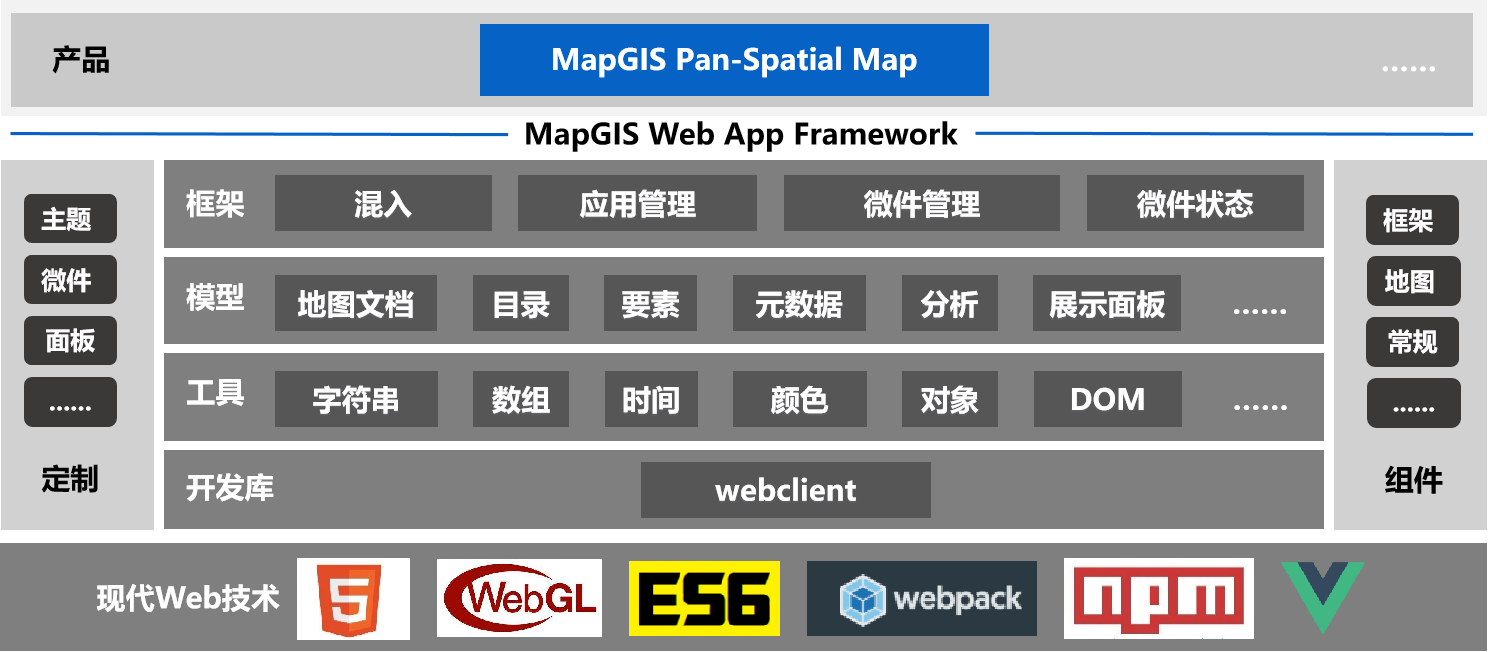
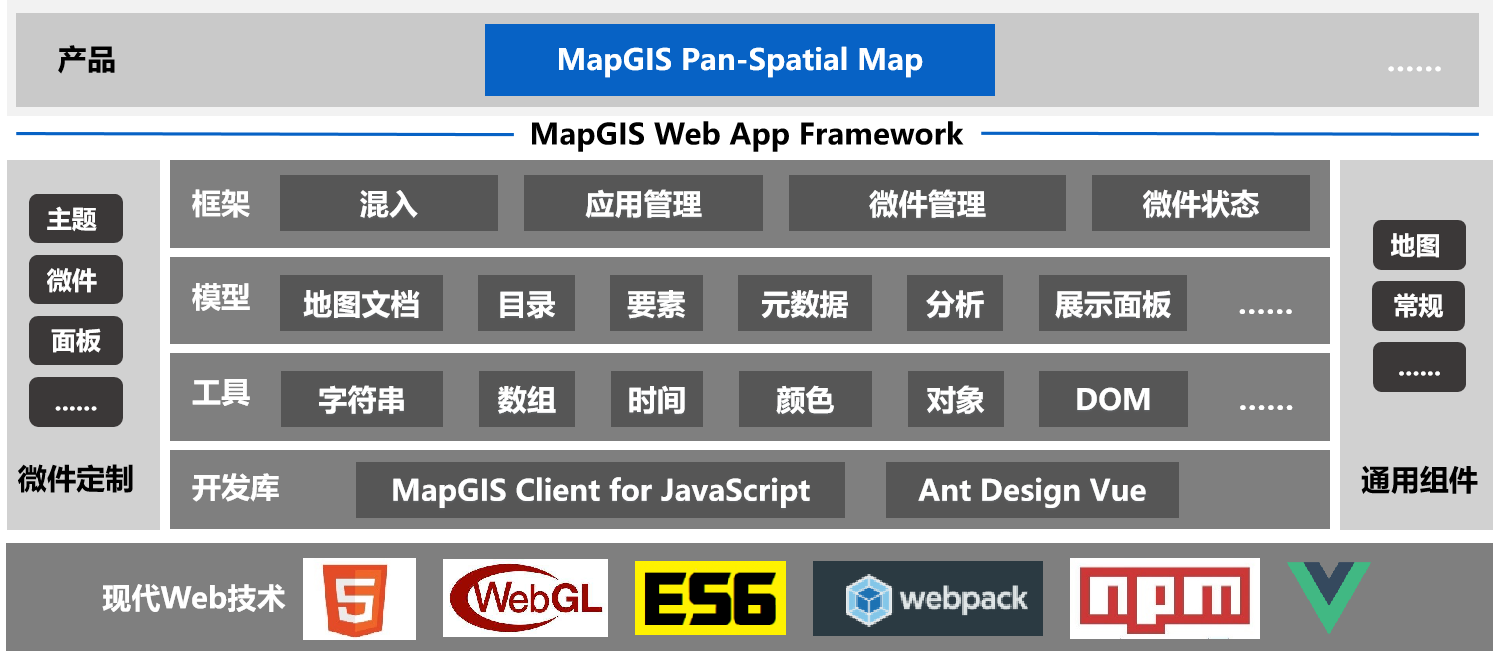
fix：根据领导建议，优化内容

diff --git a/docs/.vuepress/config.js b/docs/.vuepress/config.js
@@ -61,7 +61,7 @@ module.exports = {
             link: '/zh/guide/'
           },
           {
-            text: '配置',
+            text: '微件规范',
             link: '/zh/config/base'
           },
           {
@@ -102,7 +102,7 @@ module.exports = {
           ],
           '/zh/config/': [
             {
-              title: '配置',
+              title: '微件规范',
               children: getSidebarByCategory('config', 'zh')
             }
           ],

diff --git a/docs/zh/guide/version/change-log.md b/docs/zh/guide/version/change-log.md
@@ -2,27 +2,4 @@
 
 > 这里记录了一些框架的版本改动项
 
-### 0.9.0
-
-- 新增 [MpAppBuilder](/zh/components/builder/app-builder.html)提供应用搭建器组件
-
-### 0.2.0
-
-- 😄 调整[组件](/zh/components/common/icon.html)分类，新增更多常规组件、地图组件和搭建组件
-- 😄 集成更多[API](/zh/api/reference/builder/manager.html)，包括工具、对象、目录、元数据、要素、分析、覆盖物等模块
-
-### 0.1.0
-
-- 🔨 调整[微件目录和微件名](/zh/guide/introduction/config.html#目录结构)全小写用横线连接(kebab-case)
-- 😄 AppMixin 提供了 [baseUrl](/zh/api/reference/app-mixin.html#baseurl) 属性，可供组件拼接访问资源，比如图片
-- 🔨 调整 [MpWindow](/zh/components/common/window.html#mpwindow-窗口) 默认自适应高宽
-- 🔨 对 [MpWindowWrapper](/zh/components/common/window-wrapper.html#mpwindowwrapper-窗口包装器) 进行了局部调整
-- 😄 新增 [MpIcon](/zh/components/common/icon.html#mpicon-图标) 支持自定义 svg 图标的显示
-- 😄 新增 [MpToolbar](/zh/components/common/toolbar.html)提供工具栏组件
-- 🔨 优化微件配置 [Widget manifest](/zh/guide/introduction/config.html#widget-manifest) 提供`hasPadding`属性，同时[MpWindow](/zh/components/common/window.html#mpwindow) 支持对`hasPadding`的应用
-
-### 0.0.1
-
-- 🐛 修复 xxx
-- 🔨 优化 xxx
-- 😄 新增 xxx
+### 10.5.6.10

diff --git a/docs/zh/guide/start/start.md b/docs/zh/guide/start/start.md
@@ -2,11 +2,11 @@
 
 ## 技术准备
 
-由于本项目技术栈基于 [typescript](https://www.typescriptlang.org/)、[vue](https://cn.vuejs.org/index.html)、[vue-cli](https://github.com/vuejs/vue-cli) 、[axios](https://github.com/axios/axios) 和 [ant-design-vue](https://github.com/vueComponent/ant-design-vue)，因此需提前了解和学习这些相关知识。
+MapGIS Web App Framework 使用了最新的前端技术，比如 [typescript](https://www.typescriptlang.org/)、[vue](https://cn.vuejs.org/index.html)、[vue-cli](https://github.com/vuejs/vue-cli) 、[axios](https://github.com/axios/axios) 和 [ant-design-vue](https://github.com/vueComponent/ant-design-vue)，使用之前，可提前了解和学习这些相关知识。
 
 ## 开发环境
 
-需本地安装 [node.js](https://nodejs.org/zh-cn/)，并且 node 版本为 14.x.x。
+本地需安装 [node.js](https://nodejs.org/zh-cn/)，并且 node 版本为 14.x.x。
 
 ## 安装
 

diff --git a/docs/zh/guide/development/style.md b/docs/zh/guide/development/style.md
@@ -1,8 +1,8 @@
 # 样式
 
-因为 MapGIS Web App Framework 是基于[ant-design-vue](https://github.com/vueComponent/ant-design-vue)来打造的，所以主题样式的变化也直接采用的是 ant-design-vue 的机制，
+MapGIS Web App Framework 是基于[ant-design-vue](https://github.com/vueComponent/ant-design-vue)来打造的，所以主题样式的变化也直接采用的是 ant-design-vue 的机制。
 
-可参考[定制主题](https://www.antdv.com/docs/vue/customize-theme-cn)，另外[MapGIS 全空间一张图](https://github.com/mapgis/mapgis-pan-spatial-map)借鉴社区引入了一套完整的主题样式定制方案。
+可参考[定制主题](https://www.antdv.com/docs/vue/customize-theme-cn)，另外[MapGIS 全空间一张图](https://github.com/mapgis/mapgis-pan-spatial-map)借鉴 Ant Design Vue 社区引入了一套完整的主题样式定制方案。
 
 ## 样式配置
 
